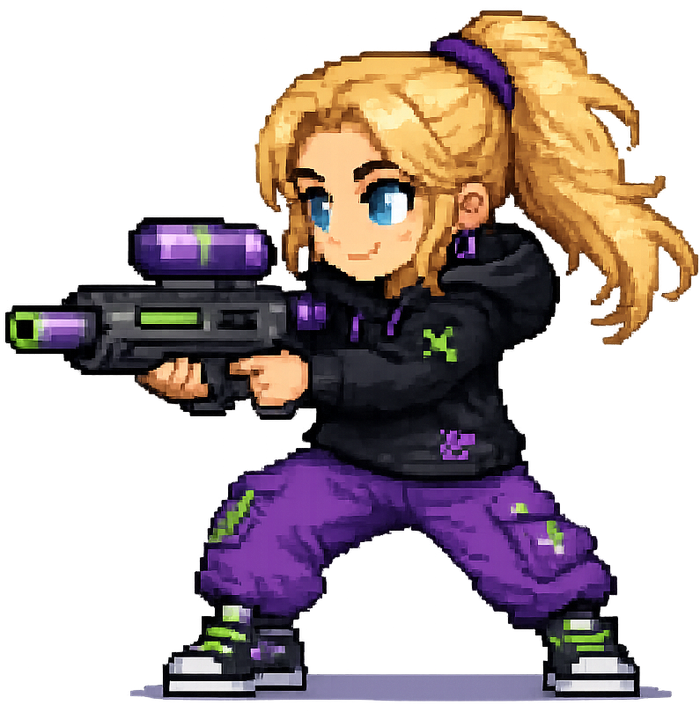
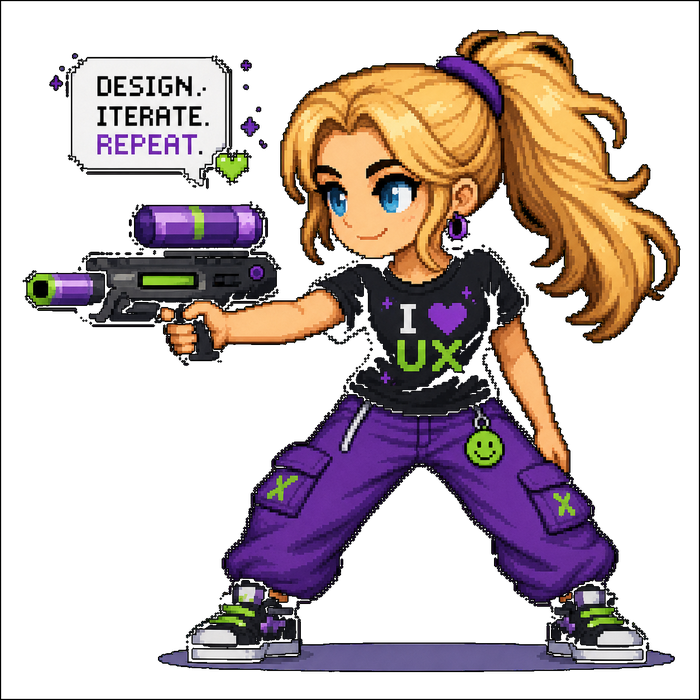
Swap in new hero character art, add celebration burst
New pixel-sam.png: I-heart-UX shirt, speech bubble ("Design. Iterate.
Repeat."), sparkles and a heart baked into the art itself. The source
had a solid black background rather than real transparency, so keyed
it out with a flood fill from the canvas edges (colors below a small
threshold, so it wouldn't eat into her genuinely dark clothing/shoes)
then eroded the mask by two pixels to kill the anti-aliased fringe
that was leaking through as a colored halo. Recomputed the muzzle
launch point for the new pose/composition, and removed the old
floating heart accent since the new art already has one baked in
near the speech bubble.

Also added a small one-shot pixel confetti burst plus a happy
character bounce that both play once when all three headline words
are hit (or skipped) — makes the reveal payoff a bit more fun.

diff --git a/src/components/home/PixelSam.tsx b/src/components/home/PixelSam.tsx
@@ -6,15 +6,16 @@ import pixelSam from '@/assets/images/home/pixel-sam.png'
 
 interface PixelSamProps {
   recoilKey: number
+  celebrate?: boolean
 }
 
 /**
  * The character's blaster muzzle sits at roughly this position within the
  * cropped sprite — used as the paint projectile's launch point.
  */
-const MUZZLE_POSITION = { leftPct: 2, topPct: 44 }
+const MUZZLE_POSITION = { leftPct: 3.3, topPct: 40 }
 
-export const PixelSam = forwardRef<HTMLDivElement, PixelSamProps>(function PixelSam({ recoilKey }, muzzleRef) {
+export const PixelSam = forwardRef<HTMLDivElement, PixelSamProps>(function PixelSam({ recoilKey, celebrate }, muzzleRef) {
   const reducedMotion = usePrefersReducedMotion()
 
   return (
@@ -32,14 +33,19 @@ export const PixelSam = forwardRef<HTMLDivElement, PixelSamProps>(function Pixel
         className="absolute inset-x-[2%] bottom-[4%] h-28 rounded-[50%] bg-[radial-gradient(ellipse_at_center,rgba(166,255,77,0.55)_0%,rgba(124,92,255,0.5)_45%,transparent_72%)] blur-lg"
       />
 
-      {/* Floating pixel accents */}
-      <PixelAccent icon="heart" color="#a6ff4d" size={28} duration={3} className="absolute left-[2%] top-[6%] z-20" />
-      <PixelAccent icon="sparkle" color="#a78bfa" size={24} duration={3.6} delay={0.4} className="absolute right-[4%] top-[2%] z-20" />
-      <PixelAccent icon="star" color="#a6ff4d" size={20} duration={4.2} delay={0.8} className="absolute right-[10%] bottom-[14%] z-20" />
+      {/* Floating pixel accents — kept clear of the art's own baked-in speech bubble/sparkles */}
+      <PixelAccent icon="sparkle" color="#a78bfa" size={22} duration={3.6} delay={0.4} className="absolute right-[6%] top-[4%] z-20" />
+      <PixelAccent icon="star" color="#a6ff4d" size={18} duration={4.2} delay={0.8} className="absolute right-[8%] bottom-[10%] z-20" />
 
       <motion.div
-        animate={reducedMotion ? undefined : { y: [0, -8, 0], rotate: [0, -0.6, 0, 0.6, 0] }}
-        transition={{ duration: 4.5, repeat: Infinity, ease: 'easeInOut' }}
+        animate={
+          reducedMotion
+            ? undefined
+            : celebrate
+              ? { scale: [1, 1.18, 0.94, 1.06, 1], rotate: [0, -4, 3, -1, 0] }
+              : { y: [0, -8, 0], rotate: [0, -0.6, 0, 0.6, 0] }
+        }
+        transition={celebrate ? { duration: 0.6, ease: [0.34, 1.56, 0.64, 1] } : { duration: 4.5, repeat: Infinity, ease: 'easeInOut' }}
       >
         <motion.div
           key={recoilKey}
@@ -50,9 +56,9 @@ export const PixelSam = forwardRef<HTMLDivElement, PixelSamProps>(function Pixel
         >
           <img
             src={pixelSam}
-            alt="Pixel-art illustration of Samantha aiming a purple-and-green paint blaster at the headline"
+            alt="Pixel-art illustration of Samantha, wearing an 'I heart UX' shirt, aiming a purple-and-green paint blaster with a speech bubble reading 'Design. Iterate. Repeat.'"
             width={700}
-            height={712}
+            height={700}
             className="relative z-10 w-full select-none [image-rendering:pixelated]"
             draggable={false}
             loading="eager"

diff --git a/src/components/home/PaintCelebration.tsx b/src/components/home/PaintCelebration.tsx
@@ -1,0 +1,35 @@
+import { motion } from 'framer-motion'
+import { usePrefersReducedMotion } from '@/hooks/useReducedMotion'
+
+const PARTICLES = [
+  { x: -60, y: -40, color: '#a6ff4d', delay: 0 },
+  { x: 50, y: -55, color: '#8a6bff', delay: 0.03 },
+  { x: -30, y: 45, color: '#a78bfa', delay: 0.06 },
+  { x: 65, y: 30, color: '#a6ff4d', delay: 0.09 },
+  { x: -75, y: 10, color: '#a78bfa', delay: 0.05 },
+  { x: 20, y: -65, color: '#a6ff4d', delay: 0.12 },
+  { x: -15, y: 60, color: '#8a6bff', delay: 0.08 },
+  { x: 80, y: -10, color: '#a78bfa', delay: 0.14 },
+]
+
+/** A one-shot pixel confetti burst — plays once when mounted, doesn't repeat. */
+export function PaintCelebration() {
+  const reducedMotion = usePrefersReducedMotion()
+
+  if (reducedMotion) return null
+
+  return (
+    <div aria-hidden className="pointer-events-none absolute left-0 top-1/2 h-0 w-0">
+      {PARTICLES.map((p, i) => (
+        <motion.span
+          key={i}
+          initial={{ opacity: 1, x: 0, y: 0, scale: 1 }}
+          animate={{ opacity: 0, x: p.x, y: p.y, scale: 0.3 }}
+          transition={{ duration: 0.7, delay: p.delay, ease: [0.16, 1, 0.3, 1] }}
+          className="absolute h-2 w-2 rounded-[2px]"
+          style={{ backgroundColor: p.color }}
+        />
+      ))}
+    </div>
+  )
+}

diff --git a/src/components/home/PixelHeroStage.tsx b/src/components/home/PixelHeroStage.tsx
@@ -5,6 +5,7 @@ import { Link } from 'react-router-dom'
 import { LinkButton } from '@/components/ui/Button'
 import { InteractiveHeadline } from './InteractiveHeadline'
 import { PixelSam } from './PixelSam'
+import { PaintCelebration } from './PaintCelebration'
 import { PaintProjectile, type Point } from './PaintProjectile'
 import { heroWords, type HeadlineWord } from './heroWords'
 
@@ -119,7 +120,10 @@ export function PixelHeroStage() {
                 </button>
               </div>
             ) : (
-              <p className="font-mono text-xs uppercase tracking-wider text-acid">Now that feels more like me.</p>
+              <p className="relative inline-block font-mono text-xs uppercase tracking-wider text-acid">
+                Now that feels more like me.
+                <PaintCelebration />
+              </p>
             )}
           </div>
 
@@ -151,7 +155,7 @@ export function PixelHeroStage() {
 
         </div>
 
-        <PixelSam ref={muzzleRef} recoilKey={recoilKey} />
+        <PixelSam ref={muzzleRef} recoilKey={recoilKey} celebrate={revealed} />
       </div>
 
       {activeShot && (
